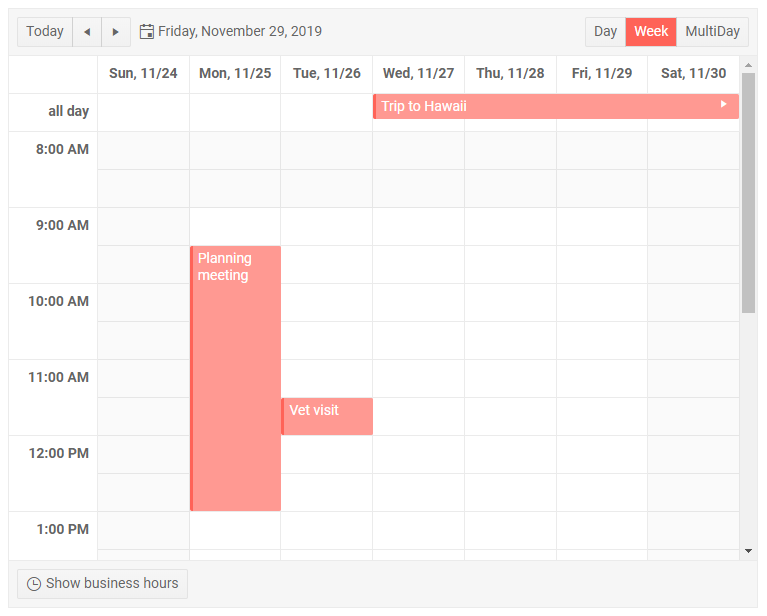
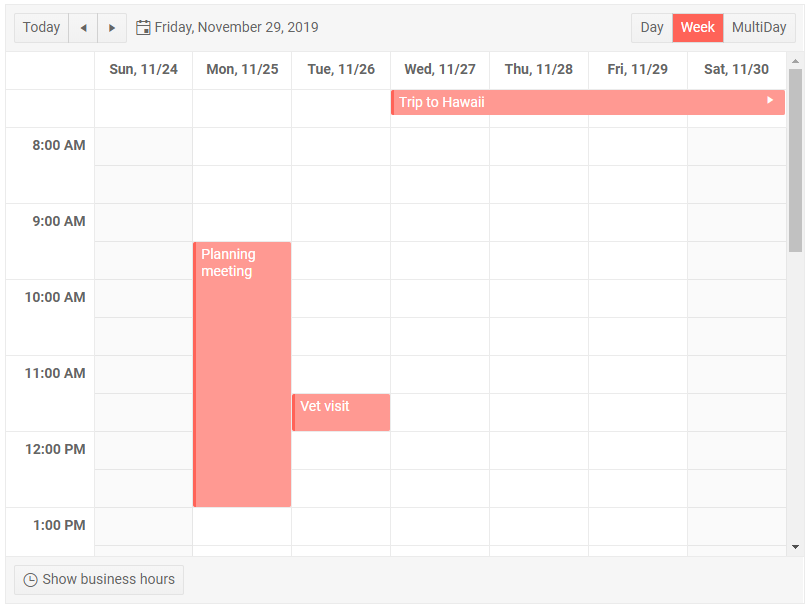
chore(scheduler): simplify first look sample

diff --git a/components/scheduler/overview.md b/components/scheduler/overview.md
@@ -16,69 +16,63 @@ To use a Telerik Scheduler for Blazor
 
 1. Add the `TelerikScheduler` tag.
 1. Populate its `Data` property with the collection of appointments/events the user needs to see. See the [Appointments Overview]({%slug scheduler-appointments-overview%}) article for details on the needed fields.
-1. Set the `TitleField`, `StartField`, `EndField`, `DescriptionField` and `IsAllDayField` properties to point to the corresponding names of the model.
-1. Define the Views the user can toggle between in the `SchedulerViews` collection. Optionally, set their settings such as days start and end.
+1. Define the Views the user can toggle between in the `SchedulerViews` collection. Optionally, set their settings (such as days start and end) and choose a default View.
 
 >caption Scheduler first look and main features
 
 ````CSHTML
-@* Fewer settings are required to get the component running, but you will usually have to set these for better UX *@
+@* Fewer settings are required to get the component running, but you will usually have to set some for better UX *@
 
-<TelerikScheduler Data="@Appointments" @bind-Date="@StartDate" Height="600px" @bind-View="@CurrView"
-                  StartField="@(nameof(SchedulerAppointment.StartTime))"
-                  EndField="@(nameof(SchedulerAppointment.EndTime))"
-                  TitleField="@(nameof(SchedulerAppointment.Title))"
-                  DescriptionField="@(nameof(SchedulerAppointment.Description))"
-                  IsAllDayField="@(nameof(SchedulerAppointment.IsAllDay))">
+<TelerikScheduler Data="@Appointments" @bind-Date="@StartDate" @bind-View="@CurrView" Height="600px" Width="800px">
     <SchedulerViews>
-        <SchedulerDayView StartTime="@DayStart" EndTime="@DayEnd" WorkDayStart="@WorkDayStart" WorkDayEnd="@WorkDayEnd" />
-        <SchedulerWeekView StartTime="@DayStart" EndTime="@DayEnd" WorkDayStart="@WorkDayStart" WorkDayEnd="@WorkDayEnd" />
-        <SchedulerMultiDayView StartTime="@DayStart" EndTime="@DayEnd" WorkDayStart="@WorkDayStart" WorkDayEnd="@WorkDayEnd" NumberOfDays="10" />
+        <SchedulerDayView StartTime="@DayStart" />
+        <SchedulerWeekView StartTime="@DayStart" />
+        <SchedulerMultiDayView StartTime="@DayStart" NumberOfDays="10" />
     </SchedulerViews>
 </TelerikScheduler>
 
 @code {
     public DateTime StartDate { get; set; } = new DateTime(2019, 11, 29);
     public SchedulerView CurrView { get; set; } = SchedulerView.Week;
-    //the time portions are important
-    public DateTime DayStart { get; set; } = new DateTime(2000, 1, 1, 8, 0, 0);
-    public DateTime DayEnd { get; set; } = new DateTime(2000, 1, 1, 20, 0, 0);
-    public DateTime WorkDayStart { get; set; } = new DateTime(2000, 1, 1, 9, 0, 0);
-    public DateTime WorkDayEnd { get; set; } = new DateTime(2000, 1, 1, 17, 0, 0);
+    public DateTime DayStart { get; set; } = new DateTime(2000, 1, 1, 8, 0, 0);//the time portion is important
     List<SchedulerAppointment> Appointments = new List<SchedulerAppointment>()
     {
             new SchedulerAppointment
             {
+                Id = Guid.NewGuid(),
                 Title = "Vet visit",
                 Description = "The cat needs vaccinations and her teeth checked.",
-                StartTime = new DateTime(2019, 11, 26, 11, 30, 0),
-                EndTime = new DateTime(2019, 11, 26, 12, 0, 0)
+                Start = new DateTime(2019, 11, 26, 11, 30, 0),
+                End = new DateTime(2019, 11, 26, 12, 0, 0)
             },
 
             new SchedulerAppointment
             {
+                Id = Guid.NewGuid(),
                 Title = "Planning meeting",
                 Description = "Kick off the new project.",
-                StartTime = new DateTime(2019, 11, 25, 9, 30, 0),
-                EndTime = new DateTime(2019, 11, 25, 12, 45, 0)
+                Start = new DateTime(2019, 11, 25, 9, 30, 0),
+                End = new DateTime(2019, 11, 25, 12, 45, 0)
             },
 
             new SchedulerAppointment
             {
+                Id = Guid.NewGuid(),
                 Title = "Trip to Hawaii",
                 Description = "An unforgettable holiday!",
                 IsAllDay = true,
-                StartTime = new DateTime(2019, 11, 27),
-                EndTime = new DateTime(2019, 12, 07)
+                Start = new DateTime(2019, 11, 27),
+                End = new DateTime(2019, 12, 07)
             }
     };
 
     public class SchedulerAppointment
     {
+        public Guid Id { get; set; }
         public string Title { get; set; }
         public string Description { get; set; }
-        public DateTime StartTime { get; set; }
-        public DateTime EndTime { get; set; }
+        public DateTime Start { get; set; }
+        public DateTime End { get; set; }
         public bool IsAllDay { get; set; }
     }
 }
@@ -108,6 +102,7 @@ The Scheduler is a generic component and its type is determined by the type of t
 
     public class SchedulerAppointment
     {
+        public Guid Id { get; set; }
         public string Title { get; set; }
         public string Description { get; set; }
         public DateTime StartTime { get; set; }

diff --git a/components/scheduler/appointments/overview.md b/components/scheduler/appointments/overview.md
@@ -18,6 +18,7 @@ The appointment model needs to provide the fields from the list below that are u
 
 >caption Appointment fields
 
+* `Id` - (`Guid`) - the unique identifier for the appointment.
 * `Title` - (`string`) - this is what is shown in the main scheduler view so the user can identify the event.
 * `Start` - (`DateTime`) - the date and time at which the appointment starts.
 * `End` - (`DateTime`) - the date and time at which the appointment ends.
